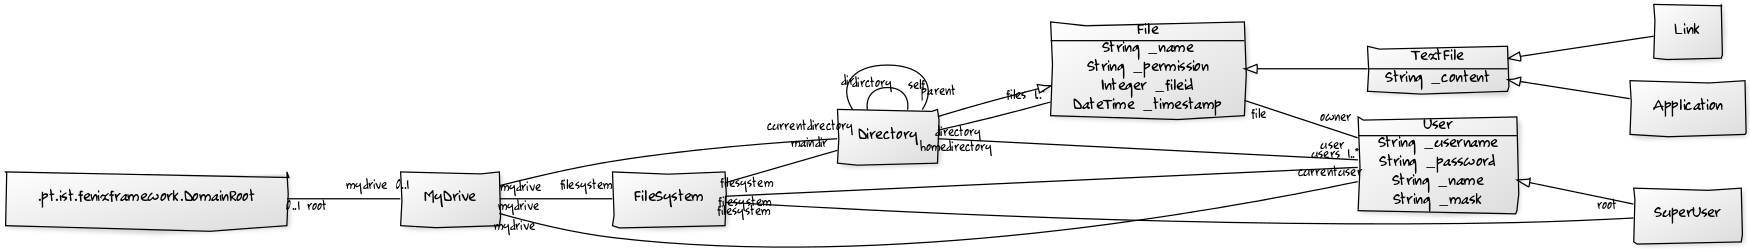
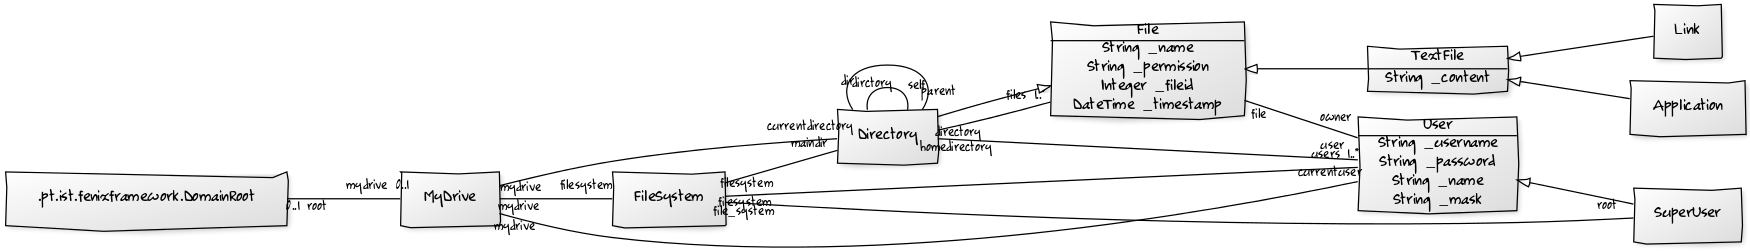
alterado no dml para tirar erro do filesystem playsrole

diff --git a/src/main/java/pt/tecnico/mydrive/domain/FileSystem.java b/src/main/java/pt/tecnico/mydrive/domain/FileSystem.java
@@ -13,14 +13,7 @@ public class FileSystem extends FileSystem_Base {
 
     public FileSystem() {
 
-    	//String name, Integer fileid, DateTime timestamp, String permission, User owner, Directory parent )
-		
-		//String username, String password, String name, String mask
-
-
-
-
-
+    
 		
         SuperUser root = new SuperUser("root", "***", "Super user", "rwxdr-x-");
 
